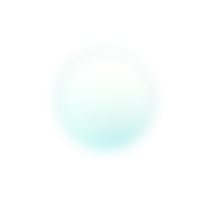
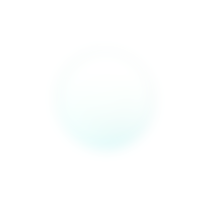
Texture changes, layout tweaks, particle sparking.

Changed region(s): [[0.42, 0.63, 0.66, 0.75]]

diff --git a/src/PassiveScene2.cpp b/src/PassiveScene2.cpp
@@ -32,7 +32,7 @@ void PassiveScene2::setup( FontRenderer &thefont, IconFactory &theIconFactory, F
 	placeMark2 = IconRenderer();
 	placeMark2.setPoints(iconFactory->getPointsForIcon(IconFactory::LOCATION_PIN) );
 	placeMark2.pos = Vec2f(150.0,-200);
-	placeMark2.scale = 0.75;
+	placeMark2.scale = 0.45;
 	
 	placeMarks.push_back(&placeMark2);
 
@@ -57,7 +57,7 @@ void PassiveScene2::setup( FontRenderer &thefont, IconFactory &theIconFactory, F
 	placeMark5 = IconRenderer();
 	placeMark5.setPoints(iconFactory->getPointsForIcon(IconFactory::LOCATION_PIN) );
 	placeMark5.pos = Vec2f(850,-200);
-	placeMark5.scale = 1.2;
+	placeMark5.scale = 0.8;
 	
 	placeMarks.push_back(&placeMark5);
 
@@ -79,11 +79,11 @@ void PassiveScene2::showFrame2()
 	font->addLine( "4GEE IS HERE", 3 );
 	font->animateIn();
 
-	cinder::app::timeline().apply(&placeMark1.pos,ci::Vec2f(placeMark1.pos.value().x,600.0), 3.0f ,cinder::EaseOutBounce(0.8));
+	cinder::app::timeline().apply(&placeMark1.pos,ci::Vec2f(placeMark1.pos.value().x,630.0), 3.0f ,cinder::EaseOutBounce(0.8));
 	cinder::app::timeline().apply(&placeMark2.pos,ci::Vec2f(placeMark2.pos.value().x,150.0), 2.0f ,cinder::EaseOutBounce(0.8));
 	//cinder::app::timeline().apply(&placeMark3.pos,ci::Vec2f(placeMark3.pos.value().x,400.0), 4.5f ,cinder::EaseOutBounce(0.8));
 	cinder::app::timeline().apply(&placeMark4.pos,ci::Vec2f(placeMark4.pos.value().x,750.0), 5.0f ,cinder::EaseOutBounce(0.8));
-	cinder::app::timeline().apply(&placeMark5.pos,ci::Vec2f(placeMark5.pos.value().x,400.0), 4.0f ,cinder::EaseOutBounce(0.8));
+	cinder::app::timeline().apply(&placeMark5.pos,ci::Vec2f(placeMark5.pos.value().x,370.0), 4.0f ,cinder::EaseOutBounce(0.8));
 	cinder::app::timeline().apply(&placeMark6.pos,ci::Vec2f(placeMark6.pos.value().x,150.0), 5.0f ,cinder::EaseOutBounce(0.8));
 
 

diff --git a/src/TweenParticle.cpp b/src/TweenParticle.cpp
@@ -18,12 +18,13 @@ TweenParticle::TweenParticle( float pX,float pY,float pRad, bool isRandomised)
 	xJitter = 0;
 	yJitter = 0;
 
-	
+	sparking = false;
 
 	if (!isRandomised){
 		textureType = 0;
 	}else if (randFloat(1.0) > 0.8){
 		textureType = randInt(4)+1;
+		
 	}else{
 		textureType = 0;
 	}
@@ -100,9 +101,21 @@ void TweenParticle::update(double t){
 		xJitter = cinder::math<float>::sin(t*jitterSpeed) * noise;
 		yJitter = cinder::math<float>::cos(t*jitterSpeed) * noise;
 
+		if (sparking == 0 && randFloat(1.0) > 0.99){
+			sparking = 20;
+		}
+
+		if (sparking > 0){
+			sparking -= 1;
+			textureType = sparking % 4 +1;
+			particleTexture = TextureGlobals::getInstance()->getParticleTexture(textureType);
+		}else if (sparking == 0){
+			textureType = 0;
+			particleTexture = TextureGlobals::getInstance()->getParticleTexture(textureType);
+		}
 	}
-	
 }
+
 float TweenParticle::ease(float time,float begin,float change,float duration,float snapback = 1.70158){
 	return change*((time=time/duration-1)*time*((snapback+1)*time + snapback) + 1) + begin;
 }

diff --git a/src/TextTestApp.cpp b/src/TextTestApp.cpp
@@ -195,7 +195,7 @@ void TextTestApp::onPassiveSceneComplete( SceneBase* sceneInstance )
 
 void TextTestApp::setup()
 {
-	flipScreen = true;
+	flipScreen = false;
 
 	// SET UP BLUR STUFF
 	// setup our scene Fbo
@@ -286,7 +286,7 @@ void TextTestApp::setup()
 
 
 	// SCENE INITIALISER. FOR TESTING PUT ANY SCENE NUMBER HERE
-	currentScene = new PassiveScene3();
+	currentScene = new PassiveScene1();
 	currentScene->getSignal()->connect( boost::lambda::bind(&TextTestApp::onPassiveSceneComplete, this, ::_1 ));
 	currentScene->setup( myFont, iconFactory, fgParticles, mbackground.gridLayer1 );
 

diff --git a/include/TweenParticle.h b/include/TweenParticle.h
@@ -53,5 +53,7 @@ public:
 	float yJitter;
 	float jitterSpeed;
 
+	int sparking;
+
 };
 #endif
